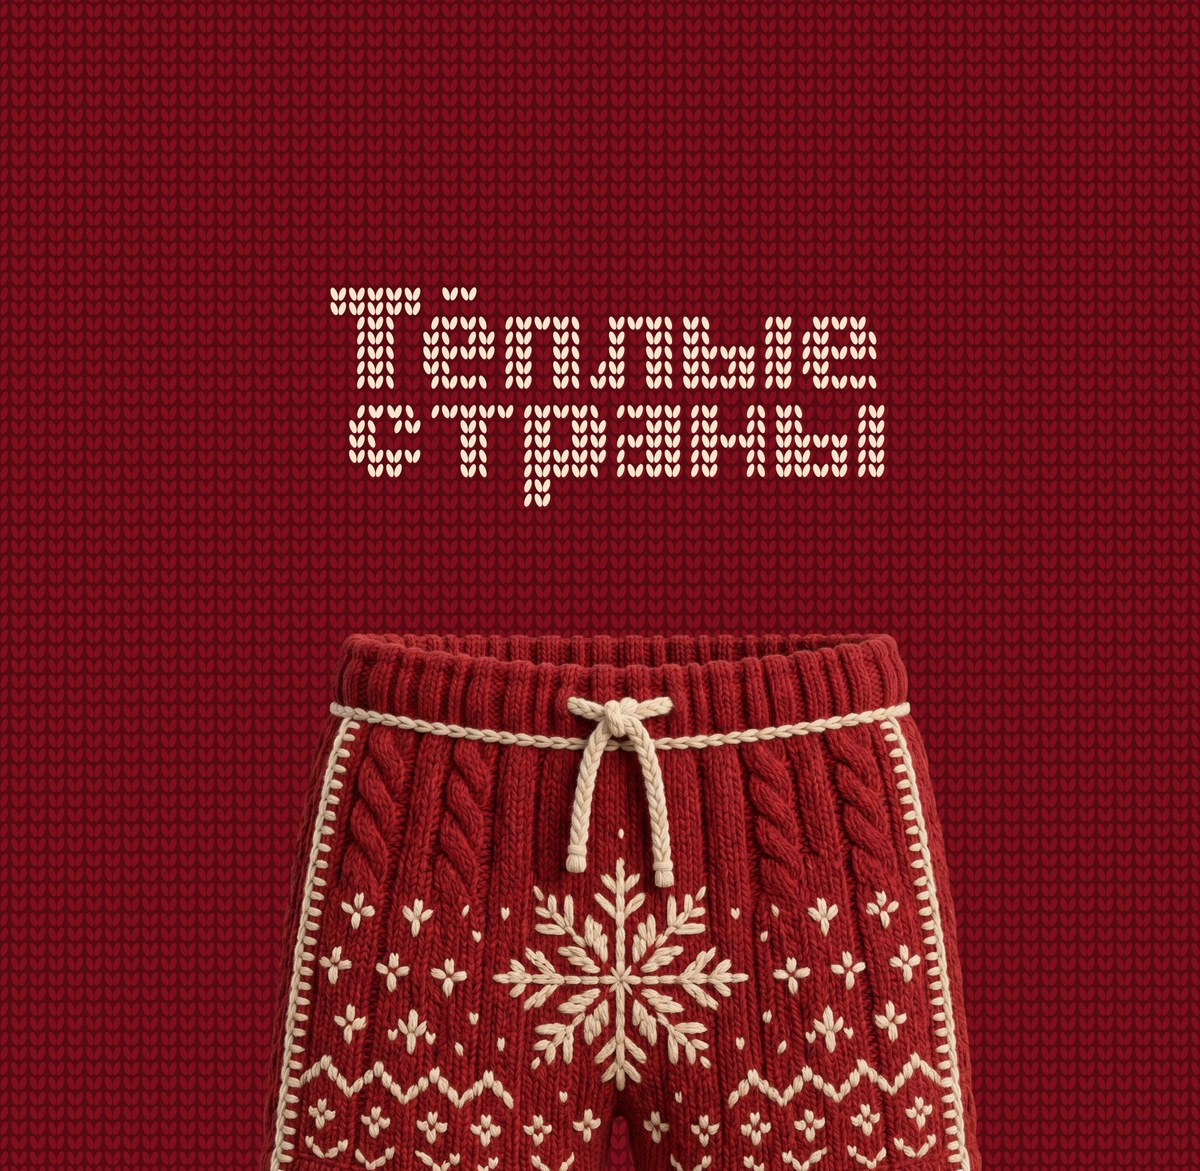
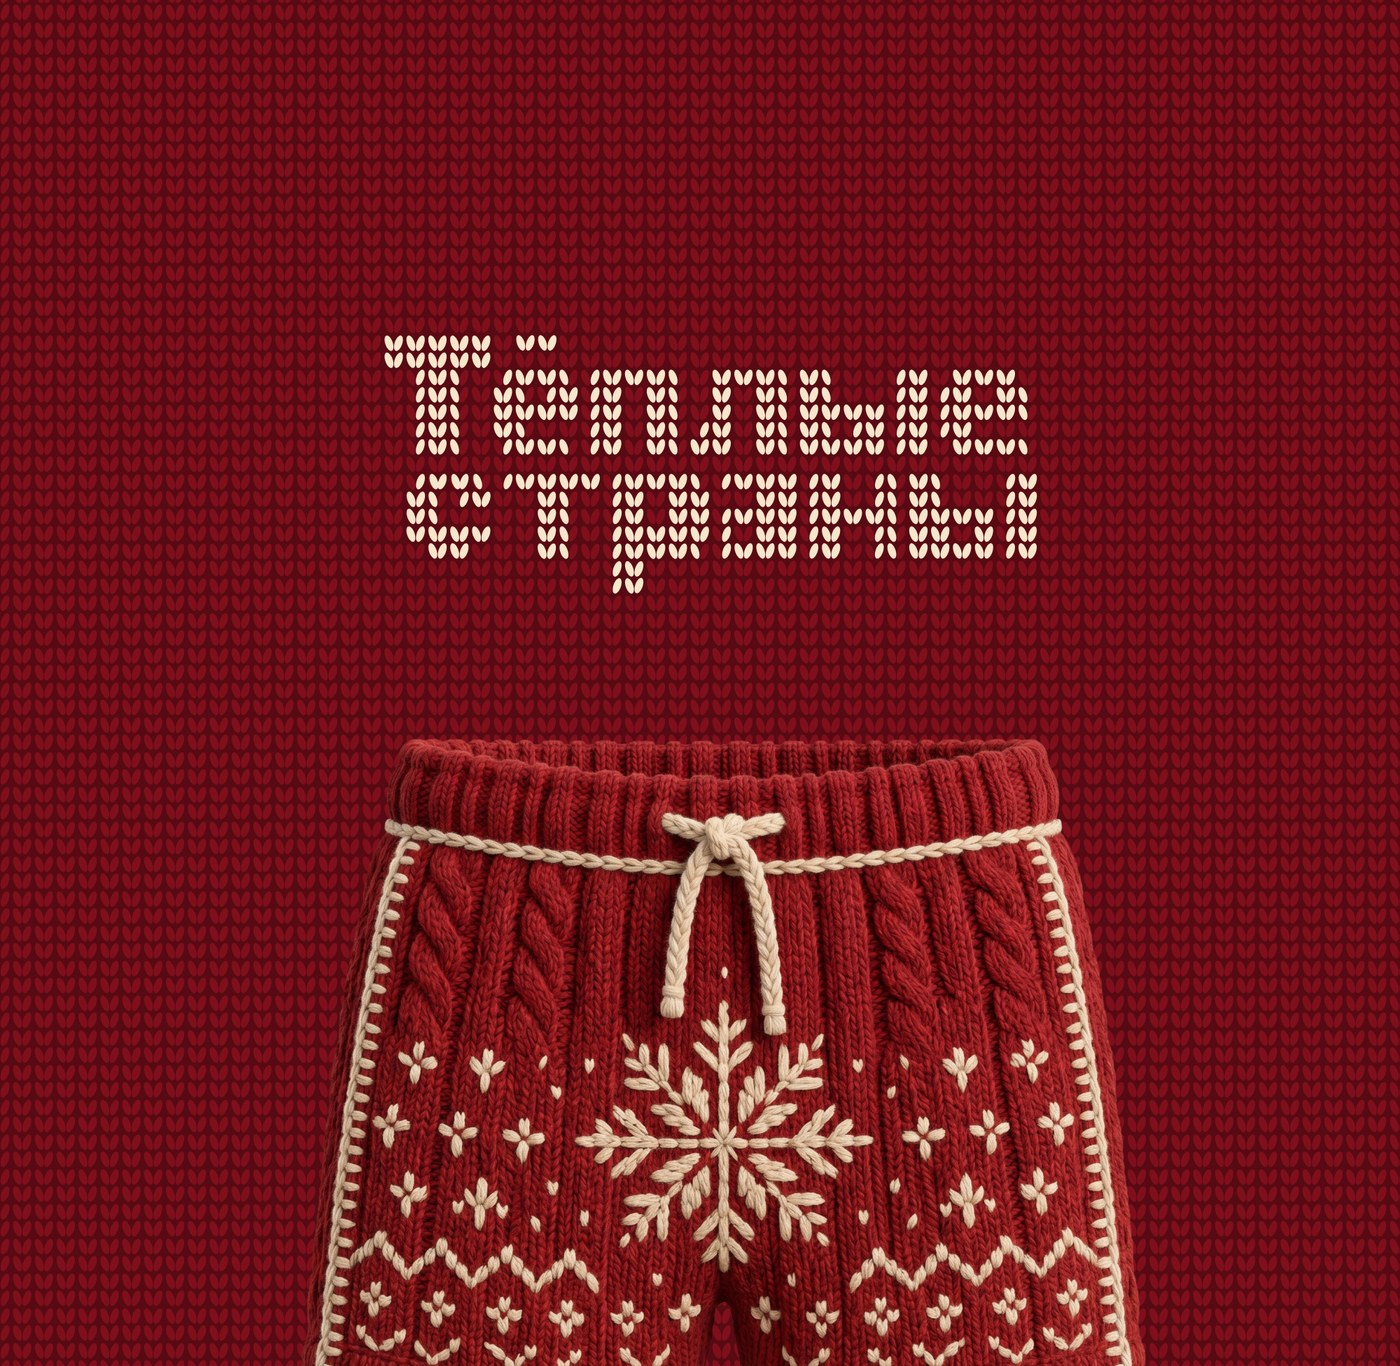
Тёплые страны: обновлена обложка плитки из Figma 3404-30010 (v3)

Changed region(s): [[0.2775, 0.2459, 0.74, 0.4304]]

diff --git a/projects.js b/projects.js
@@ -230,7 +230,7 @@ window.PROJECTS = {
     subtitle: "Сезонное новогоднее оформление главной Aviasales",
     overview:
       "Новогодний облик главной страницы Aviasales: вязаная «свитерная» айдентика, уютные иллюстрации и тёплая палитра создают праздничное настроение и мягко подсказывают сбежать от зимы – в тёплые страны.",
-    card: "assets/warm-card.jpg?v=2",
+    card: "assets/warm-card.jpg?v=3",
     cardMeta: "Сезонное оформление Aviasales",
     tone: 2,
     hideHero: true,

diff --git a/index.html b/index.html
@@ -97,7 +97,7 @@
         <li class="tile reveal" data-cat="uxui">
           <a class="tile__link" href="case.html?id=warm-countries" aria-label="Кейс: Тёплые страны">
             <div class="tile__media tile__media--image" data-tone="2">
-              <img src="assets/warm-card.jpg?v=2" alt="Тёплые страны – обложка" loading="lazy" />
+              <img src="assets/warm-card.jpg?v=3" alt="Тёплые страны – обложка" loading="lazy" />
             </div>
             <div class="tile__cap">
               <h3 class="tile__title">Тёплые страны</h3>

diff --git a/case.html b/case.html
@@ -46,7 +46,7 @@
   </button>
 
   <script src="https://cdn.jsdelivr.net/npm/lenis@1.1.14/dist/lenis.min.js"></script>
-  <script src="projects.js?v=128"></script>
+  <script src="projects.js?v=129"></script>
   <script src="case.js?v=66"></script>
   <script src="script.js?v=23"></script>
 </body>
